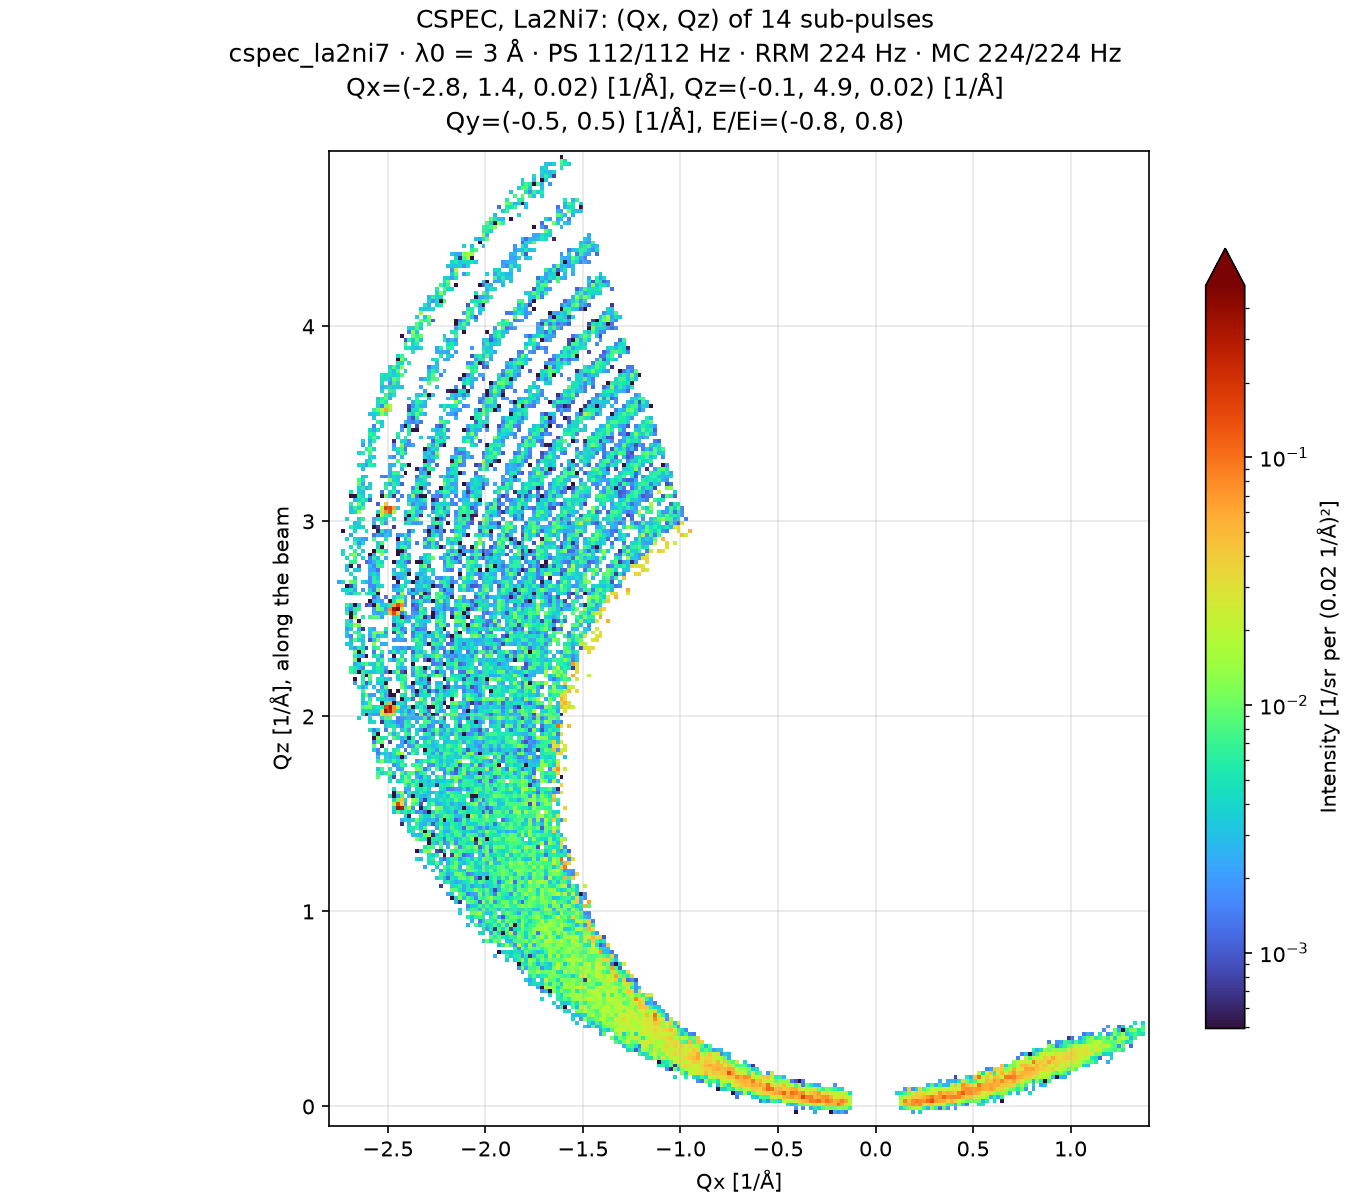
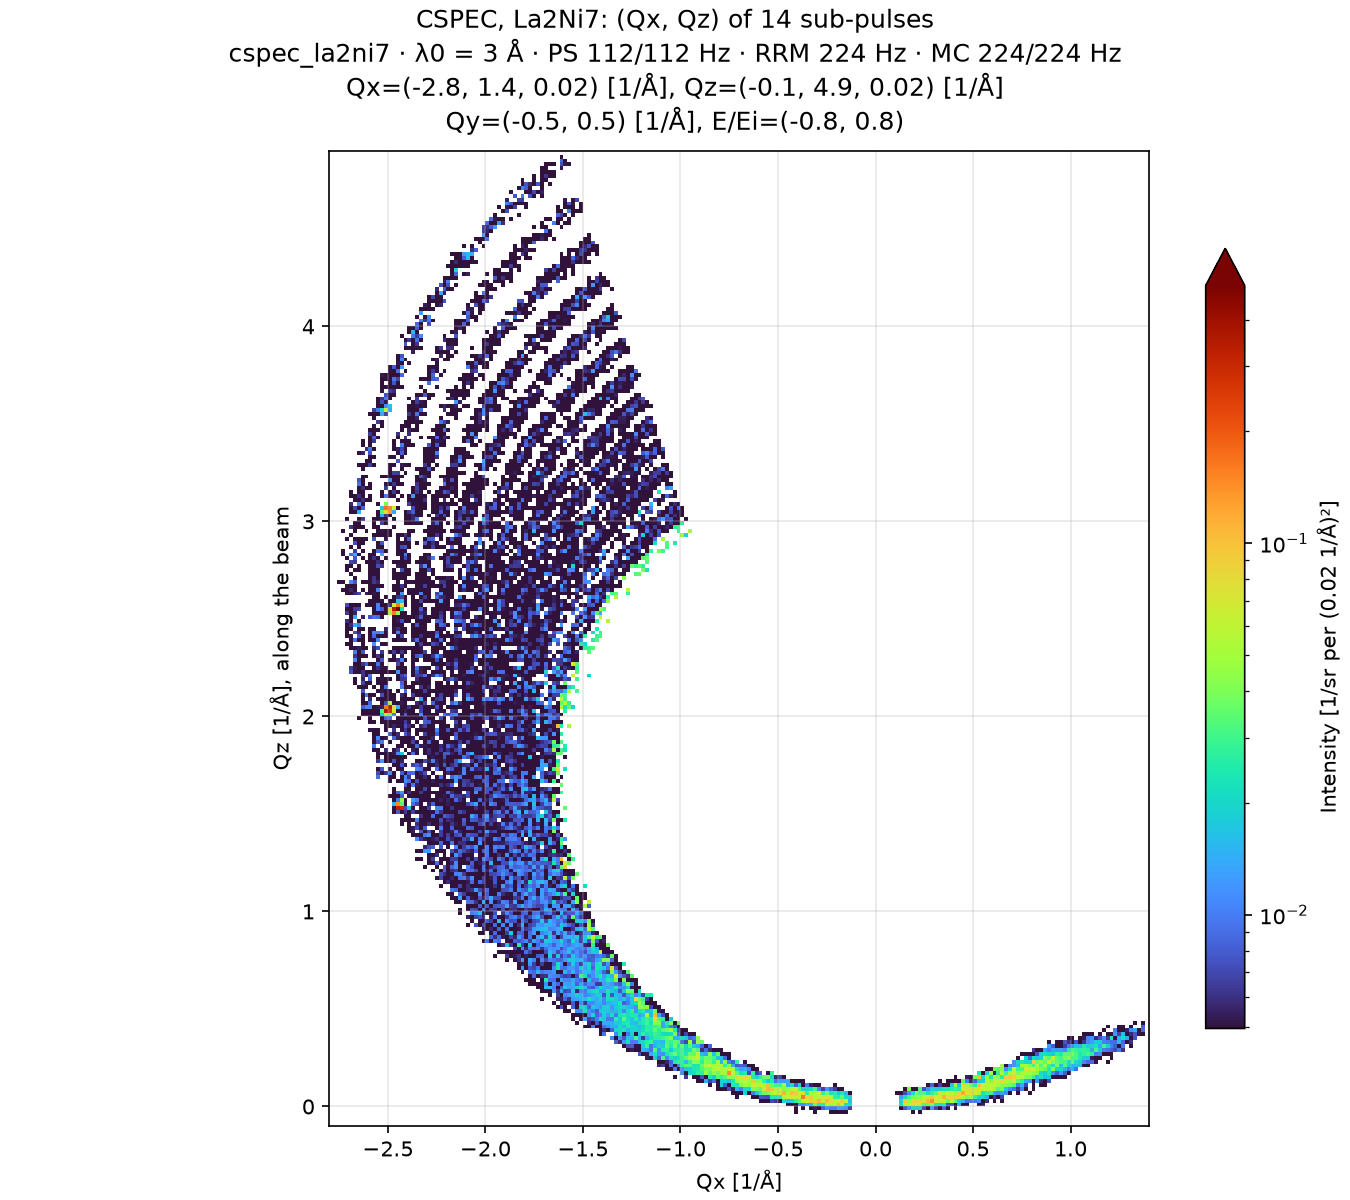
Narrow the CSPEC diffraction map's color scale to two decades
The highest bin beyond the direct beam, where the arcs of all the
sub-pulses meet, is only about two decades above the incoherent arcs,
so three decades lifted them into cyan and green. With two they are
dark blue, as on T-Rex, and the Bragg peaks stand out. Also correct the
draw_plane docstring: fewer decades put the weak bins lower, not higher.

diff --git a/src/mcdgs/diagnostics/cspec/diffraction.py b/src/mcdgs/diagnostics/cspec/diffraction.py
@@ -59,9 +59,10 @@ NAME = "cspec_diffraction"
 TO_SAMPLE = f"{NAME}_run_to_sample"  # the run folder of the first part, source -> sample_pos
 FROM_SAMPLE = f"{NAME}_run_from_sample"  # that of the second part, sample_pos -> detector
 SAMPLE_SPLIT = 10  # McStas SPLIT on the crystal: each neutron reaching it is repeated this often
-# the color scale spans this many decades below the highest bin, one fewer than for T-Rex: the arcs
-# of all the sub-pulses meet near the origin, so the highest bin is far above the incoherent arcs
-LOG_DECADES = 3
+# the color scale spans this many decades below the highest bin, two fewer than for T-Rex: the
+# highest bin, where the arcs of all the sub-pulses meet near the origin, is only about two decades
+# above the incoherent arcs, which a deeper scale would lift into cyan and green
+LOG_DECADES = 2
 
 
 # --8<-- [start:instrument]

diff --git a/src/mcdgs/diagnostics/diffraction.py b/src/mcdgs/diagnostics/diffraction.py
@@ -206,8 +206,8 @@ def draw_plane(
     vmax:
         The top of the color scale. If ``None``, the highest bin beyond the direct beam.
     log_decades:
-        How many decades the color scale spans below its top. Fewer put the weak bins higher
-        on the scale.
+        How many decades the color scale spans below its top. Fewer put the weak bins lower
+        on the scale, darker.
 
     Returns
     -------

diff --git a/docs/instruments/cspec/diffraction.md b/docs/instruments/cspec/diffraction.md
@@ -75,11 +75,12 @@ The reduction is shared with the [elastic resolution](elastic-resolution-incoher
 
 `plot_plane` keeps the neutrons near the horizontal plane, |Qy| < 0.5 Å⁻¹, sums them over Qy and
 draws them in (Qx, Qz), as on [T-Rex](../trex/diffraction.md#the-plane): a log scale in turbo,
-below the highest bin beyond |Q| = 0.2 Å⁻¹. The scale is three decades deep, one fewer than on
-T-Rex: the highest bins are where the arcs of all the sub-pulses meet, near the origin, far above
-the rest, and with four decades the incoherent arcs sat in the middle of the scale. With three
-they are blue, and the Bragg peaks and the meeting of the arcs stand out above them. A bin below
-the bottom of the scale takes its color.
+below the highest bin beyond |Q| = 0.2 Å⁻¹. The scale is two decades deep, two fewer than on
+T-Rex: the beamstop leaves no direct beam above the arcs, so the highest bins, where the arcs of
+all the sub-pulses meet near the origin, are only about two decades above the incoherent arcs,
+and a deeper scale lifts those into cyan and green. With two they are dark blue, as on T-Rex, and
+the Bragg peaks and the meeting of the arcs stand out above them. A bin below the bottom of the
+scale takes its color.
 
 - **The arcs.** Each sub-pulse has its own ki, from 1.66 to 2.69 Å⁻¹. Its elastic neutrons lie
   on a circle of radius ki through the origin, centered on ki along the beam, and the panels
